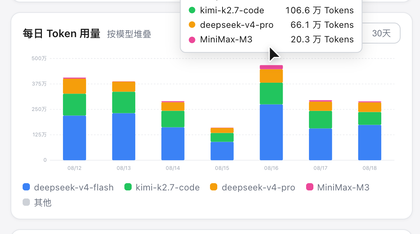
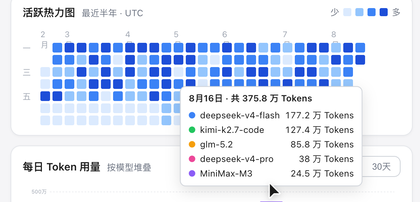
docs: update promo gif and screenshots for v0.2 full feature set
The demo gif now shows all v0.2 cards: session ranking with main/subagent
tags, provider usage bars, and the model donut with a per-model cache
hit-rate column (color-coded to each segment). Sidebar no longer shows a
username footer, matching the real settings page. Data updated to match
the v0.2 screenshot (4092.1万 total, 94.2% hit rate, 33 sessions, 59 total,
4 main / 29 subagent).

- Re-capture demo.gif at 720×1400 (taller viewport for 7 sections),
  9.5s loop, 114 frames; optimized to 560px width (464KB).
- New screenshots: overview (KPI+heatmap), sessions+providers, bar tooltip.
- Sync README.md + README.zh-CN.md: feature bullets now mention main/
  subagent tags, provider bars, and hit-rate column; screenshot table
  updated to show the new sections.

diff --git a/README.md b/README.md
@@ -16,16 +16,16 @@ Token usage statistics for [DeepSeek Harness](https://github.com/deepseek-ai/dee
 - **Cache hit rate** — `cache read ÷ (uncached input + cache read + cache write)`, with the read/write magnitudes.
 - **Activity heatmap** — the last six months in a GitHub-contribution layout (weeks as columns, weekdays as rows). Days are colored by quartile over non-zero usage.
 - **Daily stacked bars** — per-model token usage, switchable between the last 7, 14, or 30 days.
-- **Top sessions** — the 10 most token-hungry sessions with their folded titles.
-- **Providers** — per-provider totals (shown when more than one provider route is in use).
-- **Model donut** — all-time share per model, with the top 5 listed beside it and the rest folded into "other".
+- **Top sessions** — the 10 most token-hungry sessions with their folded titles, each tagged **main** or **subagent** by delegation depth.
+- **Providers** — per-provider token totals as horizontal bars (shown when more than one provider route is in use).
+- **Model donut** — all-time share per model, with the top 5 listed beside it; each row carries a per-model **cache hit rate** column, color-coded to its segment.
 - **Export** — full JSON, daily CSV and per-model CSV (formula-injection guarded, RFC 4180, UTF-8 BOM).
 
-Hovering a bar or a donut segment shows the exact breakdown:
+Hovering a bar, heatmap cell, or donut segment shows the exact breakdown:
 
-| Bar tooltip | Donut tooltip | Overview |
+| Bar tooltip | Overview (KPI + heatmap) | Sessions & providers |
 | --- | --- | --- |
-| <img src="https://raw.githubusercontent.com/AlfredChaos/dsh-usage-panel/main/assets/screenshot-hover-bar.png" width="200" alt="Bar hover tooltip" /> | <img src="https://raw.githubusercontent.com/AlfredChaos/dsh-usage-panel/main/assets/screenshot-hover-donut.png" width="200" alt="Donut hover tooltip" /> | <img src="https://raw.githubusercontent.com/AlfredChaos/dsh-usage-panel/main/assets/screenshot-overview.png" width="200" alt="KPI cards and heatmap overview" /> |
+| <img src="https://raw.githubusercontent.com/AlfredChaos/dsh-usage-panel/main/assets/screenshot-hover-bar.png" width="200" alt="Bar hover tooltip" /> | <img src="https://raw.githubusercontent.com/AlfredChaos/dsh-usage-panel/main/assets/screenshot-overview.png" width="200" alt="KPI cards and heatmap overview" /> | <img src="https://raw.githubusercontent.com/AlfredChaos/dsh-usage-panel/main/assets/screenshot-sessions.png" width="200" alt="Session ranking and provider breakdown" /> |
 
 ## Install
 

diff --git a/README.zh-CN.md b/README.zh-CN.md
@@ -16,16 +16,16 @@
 - **缓存命中率** —— `缓存读 ÷（未缓存输入 + 缓存读 + 缓存写）`，附读写绝对量。
 - **活跃热力图** —— 最近半年，GitHub 贡献图式布局（列为周、行为星期）。按非零日用量的四分位分 4 级色阶。
 - **每日柱状图** —— 按模型堆叠的每日用量，可切换最近 7 / 14 / 30 天。
-- **会话用量排行** —— 最耗 Token 的 10 个会话（含折叠标题）。
-- **Provider 用量** —— 多 Provider 时按路由展示各自用量。
-- **模型环形图** —— 各模型全历史占比，旁边列出前 5 名，其余合并为「其他」。
+- **会话用量排行** —— 最耗 Token 的 10 个会话（含折叠标题），每行按委派深度标注**主会话**或**子代理**。
+- **服务商用量** —— 多 Provider 时以横向条形按路由展示各自 Token 消耗。
+- **模型环形图** —— 各模型全历史占比，旁边列出前 5 名；每行带**缓存命中率**列，颜色与对应分段一致。
 - **导出** —— 完整 JSON、每日 CSV、模型 CSV（防公式注入、RFC 4180、UTF-8 BOM）。
 
-悬停柱子或环形图分段可以看到具体明细：
+悬停柱子、热力图格子或环形图分段可以看到具体明细：
 
-| 柱状图悬停 | 环形图悬停 | 概览 |
+| 柱状图悬停 | 概览（KPI + 热力图） | 会话排行与服务商 |
 | --- | --- | --- |
-| <img src="https://raw.githubusercontent.com/AlfredChaos/dsh-usage-panel/main/assets/screenshot-hover-bar.png" width="200" alt="柱状图悬停明细" /> | <img src="https://raw.githubusercontent.com/AlfredChaos/dsh-usage-panel/main/assets/screenshot-hover-donut.png" width="200" alt="环形图悬停明细" /> | <img src="https://raw.githubusercontent.com/AlfredChaos/dsh-usage-panel/main/assets/screenshot-overview.png" width="200" alt="KPI 卡片与热力图概览" /> |
+| <img src="https://raw.githubusercontent.com/AlfredChaos/dsh-usage-panel/main/assets/screenshot-hover-bar.png" width="200" alt="柱状图悬停明细" /> | <img src="https://raw.githubusercontent.com/AlfredChaos/dsh-usage-panel/main/assets/screenshot-overview.png" width="200" alt="KPI 卡片与热力图概览" /> | <img src="https://raw.githubusercontent.com/AlfredChaos/dsh-usage-panel/main/assets/screenshot-sessions.png" width="200" alt="会话用量排行与服务商用量" /> |
 
 ## 安装
 
